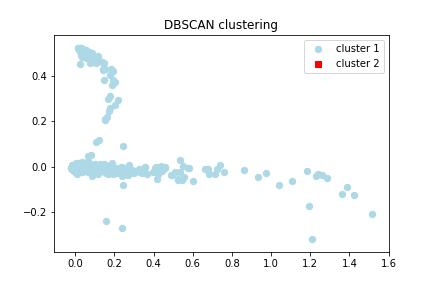
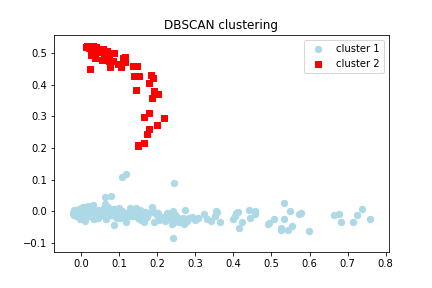
Fixed DBSCAN for day 2 and updated doc

diff --git a/docs/lab_book.tex b/docs/lab_book.tex
@@ -452,7 +452,7 @@ In figures \ref{K-means distortion 2 Selected} and \ref{K-means silhouette 2 Sel
 \experiment{Density based clustering: DBSCAN}
 After clustering both our \textit{Accelerometer} and \textit{Gyroscope} data with a traditional approach, that is, KMeans.
 
-We are going to cluster it using a density based approach with the use of the \texttt{DBSCAN}. The settings used (\textit{epsilon} and \textit{minPts}) have been tuned manually to get the best results.
+We are going to cluster it using a density based approach with the use of the \texttt{DBSCAN} algorithm. The settings used (\textit{epsilon} and \textit{minPts}) have been tuned manually to get the best results.
 
 
 \begin{figure}[h]
@@ -476,10 +476,9 @@ We are going to cluster it using a density based approach with the use of the \t
 \label{DBSCAN Gyroscope}
 \end{figure}
 
-As we can see in figures \ref{DBSCAN AccelerometerDay1}, \ref{DBSCAN AccelerometerDay2} and \ref{DBSCAN Gyroscope} 
-DBSCAN is not able to correctly cluster the data because it only groups the data in 2 clusters and some data points are lost because they are not assigned any cluster.
+As we can see in figures \ref{DBSCAN AccelerometerDay1}, and \ref{DBSCAN Gyroscope} DBSCAN is not able to correctly cluster the data because it divides the plot in half and also loses some data points. However, in figure \ref{DBSCAN AccelerometerDay2} we can clearly see that the data is now clustered correctly, it distinguishes between two clearly differentiated groups.
  
-Because of this we are not going to use \texttt{DBSCAN} based clustering in our interpretations.
+Because of this we are only going to use \texttt{DBSCAN} based clustering in the Accelerometer Day2.
 
 
 \experiment{Density based clustering: Local Outlier Factor (LOF)}
